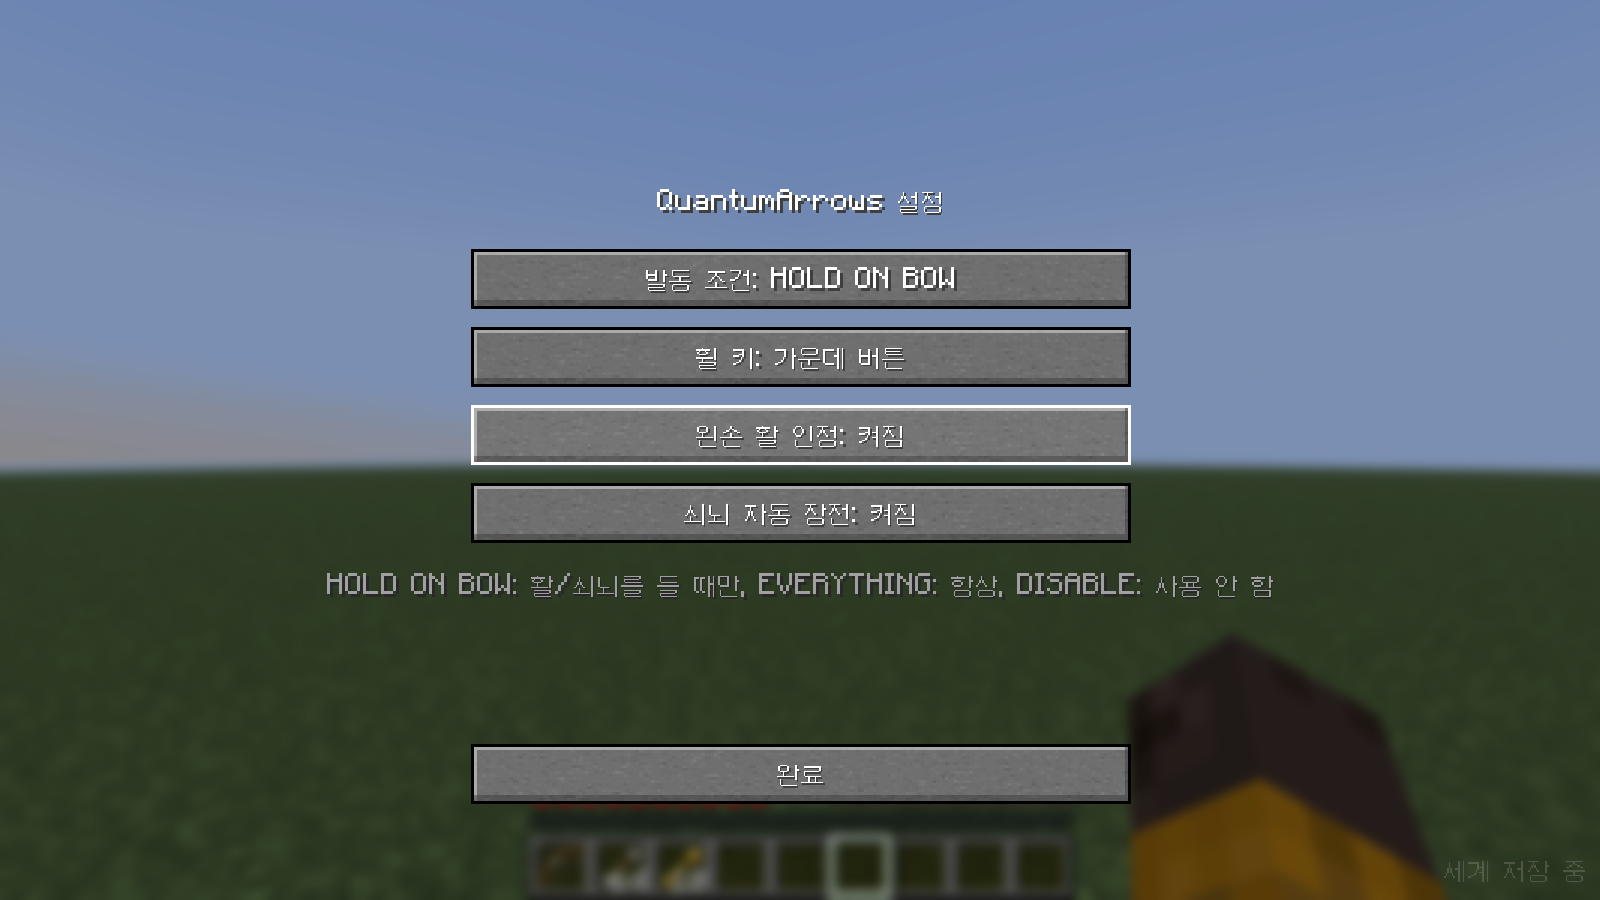
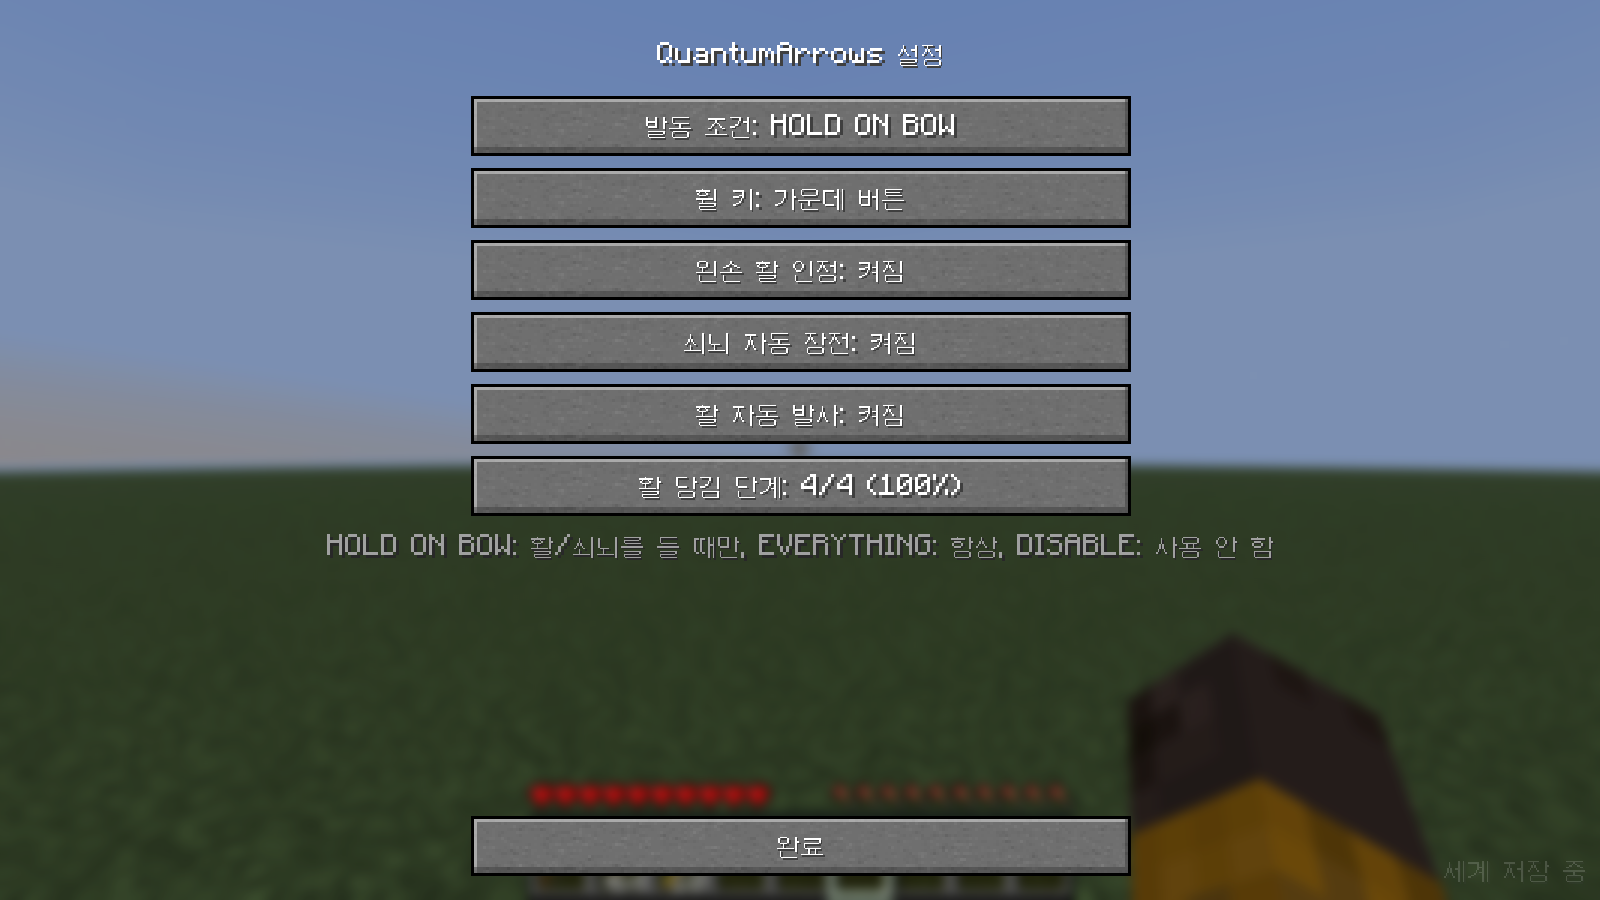
Add bow auto fire: left click changes the draw stage, holding it keeps shooting
A short left click cycles the draw stage (25/50/75/100% of a full draw), and
holding it repeatedly draws to that stage and releases. Togglable and with a
stage selector in the settings screen.

Claude-Session: https://claude.ai/code/session_01XbXCyv1xLQTMmMdbS9f379

Changed region(s): [[0.1875, 0.0311, 0.75, 0.6533], [0.2812, 0.8089, 0.7188, 0.9956], [0.7812, 0.5911, 0.8125, 0.6222]]

diff --git a/mod/src/main/java/com/quantumarrows/client/BowAutoFire.java b/mod/src/main/java/com/quantumarrows/client/BowAutoFire.java
@@ -1,0 +1,122 @@
+package com.quantumarrows.client;
+
+import net.minecraft.client.Minecraft;
+import net.minecraft.client.player.LocalPlayer;
+import net.minecraft.network.chat.Component;
+import net.minecraft.world.InteractionHand;
+import net.minecraft.world.item.BowItem;
+import net.minecraft.world.item.ItemStack;
+
+/**
+ * With a bow in the main hand, the left mouse button controls the draw stage instead of attacking:
+ * a short click moves to the next stage, and holding it shoots again and again at the chosen stage.
+ *
+ * <p>Stage {@code n} of {@value #STAGES} releases the arrow after {@code n / STAGES} of the full draw time.
+ */
+public final class BowAutoFire {
+    public static final int STAGES = 4;
+    /** Ticks the button must stay down before it counts as "held" instead of a click. */
+    private static final int HOLD_TICKS = 5;
+    private static final int RESTART_DELAY = 3;
+
+    private static int leftHeldTicks;
+    private static boolean autoMode;
+    /** A draw started by this class that has not been released yet. */
+    private static boolean drawing;
+    /** Ticks to wait after a shot before drawing again. */
+    private static int cooldown;
+
+    private BowAutoFire() {
+    }
+
+    public static int percent(int stage) {
+        return stage * 100 / STAGES;
+    }
+
+    private static int stageTicks(int stage) {
+        return stage * BowItem.MAX_DRAW_DURATION / STAGES;
+    }
+
+    private static void reset(Minecraft minecraft) {
+        if (drawing) {
+            minecraft.options.keyUse.setDown(false);
+        }
+        leftHeldTicks = 0;
+        autoMode = false;
+        drawing = false;
+        cooldown = 0;
+    }
+
+    /** Runs at the start of every client tick, before vanilla handles the key bindings. */
+    public static void tick(Minecraft minecraft, QuantumArrowsConfig config) {
+        LocalPlayer player = minecraft.player;
+        if (player == null || minecraft.gui.screen() != null || !config.autoFireBow
+                || !(player.getMainHandItem().getItem() instanceof BowItem)) {
+            reset(minecraft);
+            return;
+        }
+
+        boolean leftDown = minecraft.mouseHandler.isLeftPressed();
+        // Presses are queued by the key mapping, so a click shorter than one tick is still seen.
+        boolean pressed = false;
+        while (minecraft.options.keyAttack.consumeClick()) {
+            pressed = true;
+        }
+        if (leftDown || leftHeldTicks > 0) {
+            // The bow's attack would otherwise hit or mine while the button is down.
+            minecraft.options.keyAttack.setDown(false);
+        }
+
+        if (leftDown) {
+            leftHeldTicks++;
+            if (leftHeldTicks > HOLD_TICKS) {
+                autoMode = true;
+            }
+        } else if (leftHeldTicks > 0) {
+            if (!autoMode) {
+                nextStage(player, config);
+            }
+            autoMode = false;
+            leftHeldTicks = 0;
+        } else if (pressed) {
+            // Pressed and released between two ticks.
+            nextStage(player, config);
+        }
+
+        if (drawing) {
+            if (!player.isUsingItem()) {
+                drawing = false;
+                minecraft.options.keyUse.setDown(false);
+            } else if (player.getTicksUsingItem() >= stageTicks(config.fireStage)) {
+                // Vanilla releases a used item as soon as the use key is up, which fires the arrow.
+                minecraft.options.keyUse.setDown(false);
+                drawing = false;
+                cooldown = RESTART_DELAY;
+            } else {
+                // Keep vanilla from releasing the draw early.
+                minecraft.options.keyUse.setDown(true);
+            }
+        } else if (cooldown > 0) {
+            cooldown--;
+        } else if (autoMode && !player.isUsingItem() && canShoot(player)) {
+            minecraft.options.keyUse.setDown(true);
+            minecraft.gameMode.useItem(player, InteractionHand.MAIN_HAND);
+            drawing = player.isUsingItem();
+            if (!drawing) {
+                minecraft.options.keyUse.setDown(false);
+            }
+        }
+    }
+
+    private static boolean canShoot(LocalPlayer player) {
+        ItemStack bow = player.getMainHandItem();
+        return player.hasInfiniteMaterials() || !player.getProjectile(bow).isEmpty();
+    }
+
+    private static void nextStage(LocalPlayer player, QuantumArrowsConfig config) {
+        config.fireStage = config.fireStage % STAGES + 1;
+        config.save();
+        player.sendOverlayMessage(Component.translatable("quantumarrows.message.stage",
+                config.fireStage, STAGES, percent(config.fireStage)));
+    }
+}

diff --git a/mod/src/main/java/com/quantumarrows/client/QuantumArrowsSettingsScreen.java b/mod/src/main/java/com/quantumarrows/client/QuantumArrowsSettingsScreen.java
@@ -19,11 +19,13 @@ import net.minecraft.network.chat.Component;
 public final class QuantumArrowsSettingsScreen extends Screen {
     private static final int WIDGET_WIDTH = 220;
     private static final int WIDGET_HEIGHT = 20;
-    private static final int SPACING = 6;
+    private static final int SPACING = 4;
+    private static final int TOP = 32;
 
     private final Screen parent;
     private Button keyButton;
     private boolean listening;
+    private int hintY;
 
     public QuantumArrowsSettingsScreen(Screen parent) {
         super(Component.translatable("quantumarrows.settings.title"));
@@ -34,31 +36,49 @@ public final class QuantumArrowsSettingsScreen extends Screen {
     protected void init() {
         QuantumArrowsConfig config = QuantumArrowsClient.config();
         int x = (width - WIDGET_WIDTH) / 2;
-        int y = height / 4 + 8;
+        int row = 0;
 
         addRenderableWidget(CycleButton.builder(
                         (QuantumArrowsConfig.Activation value) -> Component.literal(value.label()), config.activation)
                 .withValues(QuantumArrowsConfig.Activation.values())
-                .create(x, y, WIDGET_WIDTH, WIDGET_HEIGHT, Component.translatable("quantumarrows.settings.activation"),
+                .create(x, rowY(row++), WIDGET_WIDTH, WIDGET_HEIGHT, Component.translatable("quantumarrows.settings.activation"),
                         (button, value) -> config.activation = value));
 
         keyButton = addRenderableWidget(Button.builder(keyLabel(), button -> {
             listening = true;
             keyButton.setMessage(keyLabel());
-        }).bounds(x, y + WIDGET_HEIGHT + SPACING, WIDGET_WIDTH, WIDGET_HEIGHT).build());
+        }).bounds(x, rowY(row++), WIDGET_WIDTH, WIDGET_HEIGHT).build());
 
         addRenderableWidget(CycleButton.onOffBuilder(config.offhandBow)
-                .create(x, y + (WIDGET_HEIGHT + SPACING) * 2, WIDGET_WIDTH, WIDGET_HEIGHT,
+                .create(x, rowY(row++), WIDGET_WIDTH, WIDGET_HEIGHT,
                         Component.translatable("quantumarrows.settings.offhand"),
                         (button, value) -> config.offhandBow = value));
 
         addRenderableWidget(CycleButton.onOffBuilder(config.autoLoadCrossbow)
-                .create(x, y + (WIDGET_HEIGHT + SPACING) * 3, WIDGET_WIDTH, WIDGET_HEIGHT,
+                .create(x, rowY(row++), WIDGET_WIDTH, WIDGET_HEIGHT,
                         Component.translatable("quantumarrows.settings.crossbow"),
                         (button, value) -> config.autoLoadCrossbow = value));
 
+        addRenderableWidget(CycleButton.onOffBuilder(config.autoFireBow)
+                .create(x, rowY(row++), WIDGET_WIDTH, WIDGET_HEIGHT,
+                        Component.translatable("quantumarrows.settings.autofire"),
+                        (button, value) -> config.autoFireBow = value));
+
+        addRenderableWidget(CycleButton.builder(
+                        (Integer stage) -> Component.literal(stage + "/" + BowAutoFire.STAGES + " (" + BowAutoFire.percent(stage) + "%)"),
+                        config.fireStage)
+                .withValues(java.util.stream.IntStream.rangeClosed(1, BowAutoFire.STAGES).boxed().toList())
+                .create(x, rowY(row++), WIDGET_WIDTH, WIDGET_HEIGHT, Component.translatable("quantumarrows.settings.stage"),
+                        (button, value) -> config.fireStage = value));
+
+        hintY = rowY(row) + 2;
+
         addRenderableWidget(Button.builder(CommonComponents.GUI_DONE, button -> onClose())
-                .bounds(x, height - 52, WIDGET_WIDTH, WIDGET_HEIGHT).build());
+                .bounds(x, height - 28, WIDGET_WIDTH, WIDGET_HEIGHT).build());
+    }
+
+    private int rowY(int row) {
+        return TOP + row * (WIDGET_HEIGHT + SPACING);
     }
 
     private Component keyLabel() {
@@ -99,9 +119,9 @@ public final class QuantumArrowsSettingsScreen extends Screen {
     @Override
     public void extractRenderState(GuiGraphicsExtractor graphics, int mouseX, int mouseY, float partialTick) {
         super.extractRenderState(graphics, mouseX, mouseY, partialTick);
-        graphics.centeredText(font, title, width / 2, height / 4 - 12, 0xFFFFFFFF);
+        graphics.centeredText(font, title, width / 2, 14, 0xFFFFFFFF);
         graphics.centeredText(font, Component.translatable("quantumarrows.settings.activation.hint"),
-                width / 2, height / 4 + 8 + (WIDGET_HEIGHT + SPACING) * 4 + 4, 0xFFA0A0A0);
+                width / 2, hintY, 0xFFA0A0A0);
     }
 
     @Override

diff --git a/mod/src/main/java/com/quantumarrows/client/QuantumArrowsConfig.java b/mod/src/main/java/com/quantumarrows/client/QuantumArrowsConfig.java
@@ -54,6 +54,10 @@ public final class QuantumArrowsConfig {
     public boolean offhandBow = true;
     /** Finish loading a crossbow automatically once it is fully drawn, even while use is still held. */
     public boolean autoLoadCrossbow = true;
+    /** Left click with a bow: click = next draw stage, hold = keep shooting at that stage. */
+    public boolean autoFireBow = true;
+    /** Draw stage, 1 to {@link BowAutoFire#STAGES}. */
+    public int fireStage = BowAutoFire.STAGES;
 
     public static QuantumArrowsConfig load() {
         Path path = path();
@@ -72,6 +76,7 @@ public final class QuantumArrowsConfig {
             LOGGER.warn("Invalid targetSlot {} in {}, using {}", config.targetSlot, path, DEFAULT_TARGET_SLOT);
             config.targetSlot = DEFAULT_TARGET_SLOT;
         }
+        config.fireStage = Math.clamp(config.fireStage, 1, BowAutoFire.STAGES);
         if (config.activation == null) {
             config.activation = Activation.HOLD_ON_BOW;
         }

diff --git a/mod/src/main/java/com/quantumarrows/client/QuantumArrowsClient.java b/mod/src/main/java/com/quantumarrows/client/QuantumArrowsClient.java
@@ -56,6 +56,7 @@ public final class QuantumArrowsClient implements ClientModInitializer {
     }
 
     private static void onStartTick(Minecraft minecraft) {
+        BowAutoFire.tick(minecraft, config);
         if (minecraft.player == null || minecraft.gui.screen() != null) {
             return;
         }
